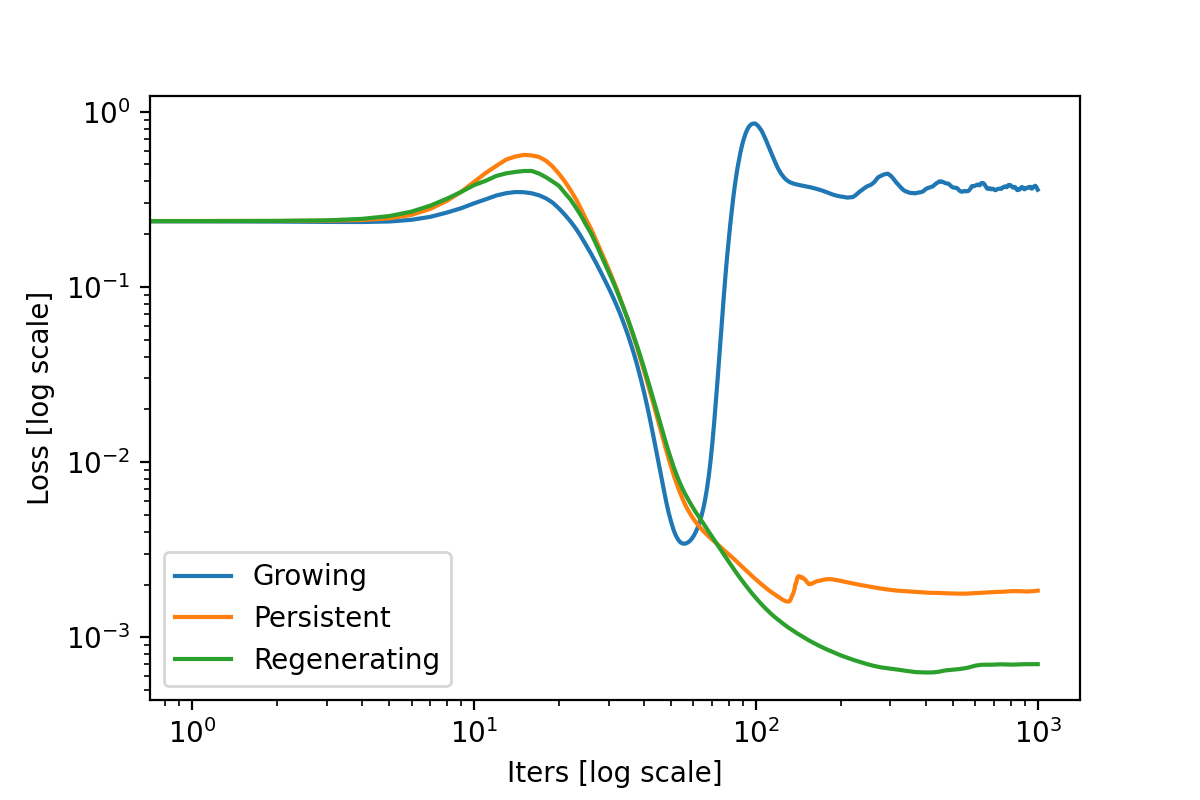
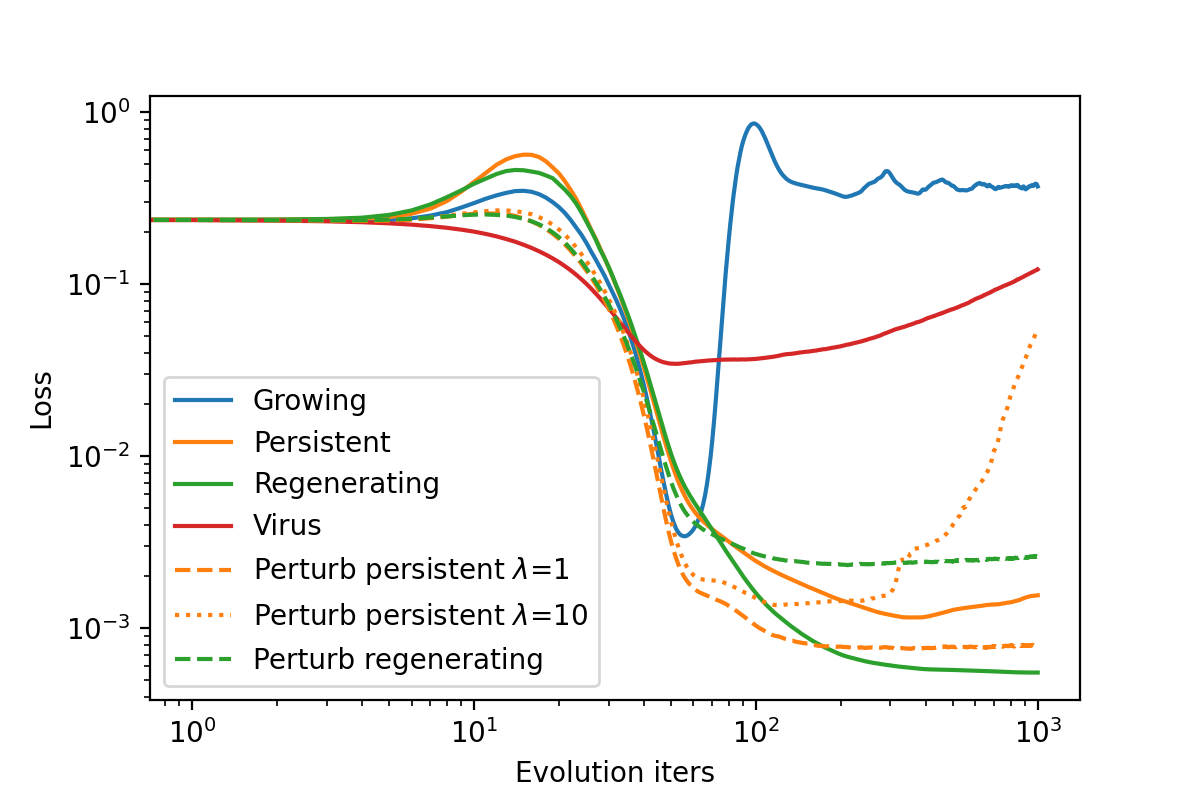
Fixed folder structure

diff --git a/README.md b/README.md
@@ -1,12 +1,20 @@
 # Neural Cellular Automaton
 
-## Lorenzo Cavuoti, Marco Sicklinger
+###### Deep Learning exam 2020-2021
 
+###### Group members: *Cavuoti Lorenzo*, *Sicklinger Marco*
 
-Study and implementation of a **Neural Cellular Automaton** aiming at the simulation of **self-organizing** structures' processes of growth, persistence in time and regeneration after a damage.
+## Introduction
+We studied and implemented a **Neural Cellular Automaton** aiming at the simulation of **self-organizing** structures' processes of growth, persistence in time and regeneration after a damage.
 
-The presentation of the project can be found [here](https://docs.google.com/presentation/d/1c2JkIgbuHCxGZLgb3y7ITkac3qg1O5qFywbTcJILwYc/edit?usp=sharing)
+The presentation of the project can be found [Here](https://docs.google.com/presentation/d/1c2JkIgbuHCxGZLgb3y7ITkac3qg1O5qFywbTcJILwYc/edit?usp=sharing)
 
+## Folder structure
+- `Papers`: Contains the papers used for the project
+- `pytorch_ca`: Contains the implementation of the neural cellular automata in Pytorch
+- `Introduction.pdf`: Is the abstract of the project
+
+## References
 This work was inspired and/or helped by the following works:
 
 1. Alexander Mordvintsev et al. “Growing Neural Cellular Automata”. In: Distill (2020). https://distill.pub/2020/growing-ca.doi: 10.23915/distill.000232. 

diff --git a/pytorch_ca/README.md b/pytorch_ca/README.md
@@ -1,0 +1,14 @@
+## Folder structure
+`Presentation_images`: Contains the images used for the presentation  
+`Presentation_videos`: Contains the videos used for the presentation  
+`Pretrained_models`: Contains pretrained CAs  
+
+
+`target.png`: Target image the CA will converge to  
+`CA_model.py`: Implementation of the original CA  
+`growingCA.ipynb`: A sort of tutorial on how to use the CA model class
+
+`Virus_CA.py`: Implementation of the virus CA  
+`Virus_CA.ipynb`: Contains the virus CA experiments  
+`Perturbation_CA.py`: Implementation of the perturbation CA  
+`Perturbation_CA.ipynb`: Contains the perturbation CA experiments  
